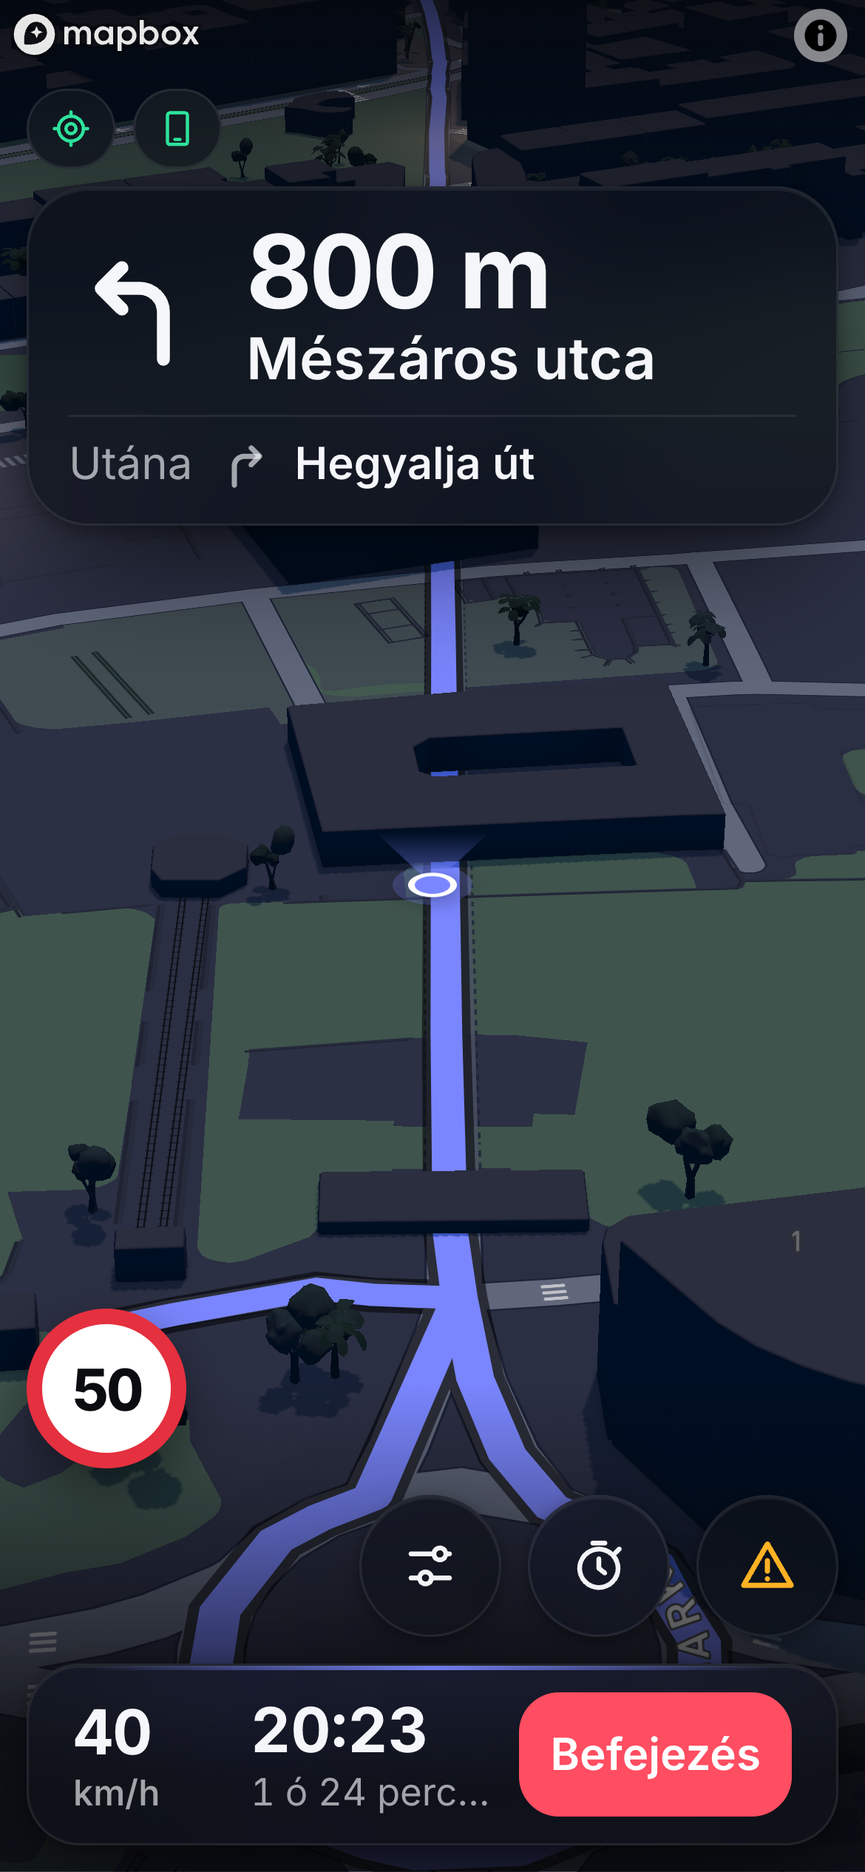
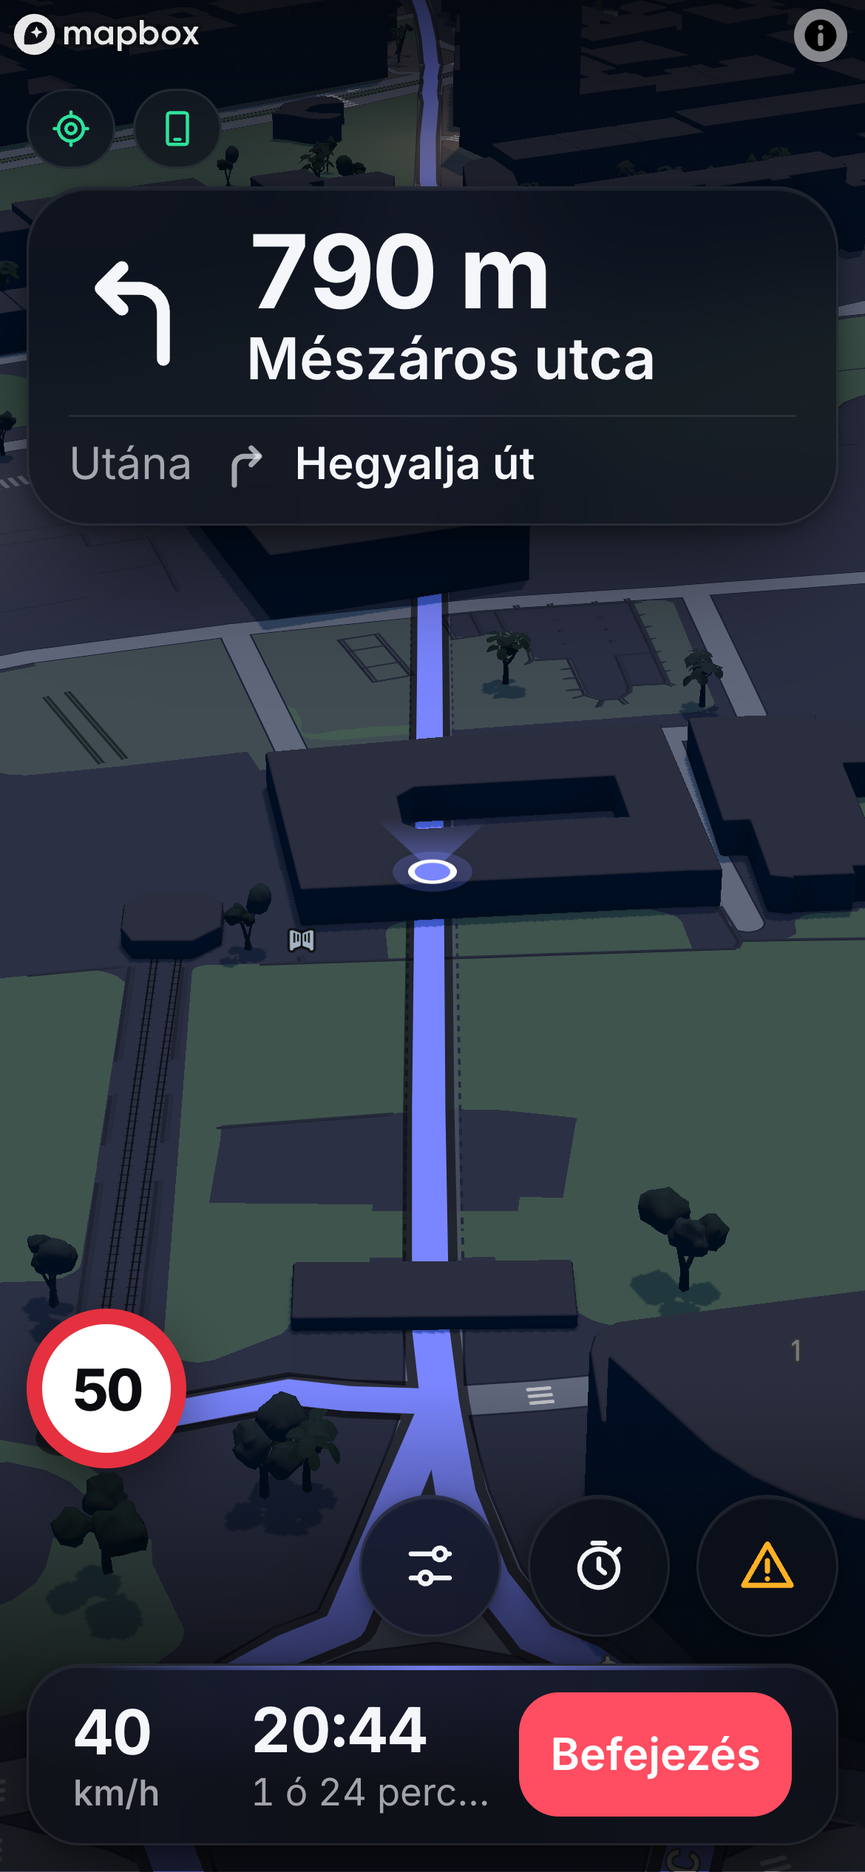
A8c: lehajtó = az alternatíva első új manővere (név, Waze-minta bemondás), fixtúra-tesztek

diff --git a/packages/app-logic/test/navigation.test.ts b/packages/app-logic/test/navigation.test.ts
@@ -1,4 +1,4 @@
-import { LocalProjection, type GpsFix, type LatLon, type Section } from '@atlagsebesseg/core';
+import { LocalProjection, Route, type GpsFix, type LatLon, type Section } from '@atlagsebesseg/core';
 import type { FixedCamera } from '../src/cameras';
 import { afterEach, describe, expect, it, vi } from 'vitest';
 import { BUDAPEST_GYOR_DIRECTIONS } from '../src/navigation/fixtures';
@@ -14,6 +14,7 @@ import {
   maneuverIcon,
   NavigationSession,
   NAV_CONFIG,
+  firstNewManeuver,
   parseDirections,
   parseGeocode,
   parseRecents,
@@ -396,23 +397,53 @@ describe('alternatíva-figyelés', () => {
     expect(offer).not.toBeNull();
   });
 
-  /** Az alternatíva az `k`-adik 100 m-es ponttól tér le az útvonalról. */
-  const branching = (k: number): NavRoute => {
-    const alt = scaleDurations(lineRoute({ lengthM: 42_000, durationS: 1800, id: 'alt' }), 1200, 'alt');
-    return { ...alt, points: alt.points.map((p, i) => (i >= k ? { lat: p.lat + 0.003, lon: p.lon } : p)) };
+  /** A Budapest→Győr fixtúra: a jelenlegi útvonal és az igazi alternatíva (gyorsabbra skálázva); a lehajtója a 56. kilométernél van. */
+  const fixture = () => {
+    const [main, other] = parseDirections(BUDAPEST_GYOR_DIRECTIONS, 'fx') as [NavRoute, NavRoute];
+    const core = new Route(main.points, main.distanceM);
+    const alt = scaleDurations(other, main.durationS - 600, 'alt');
+    const sectionOn = (fromM: number, toM: number): Section => {
+      const a = core.pointAt(fromM);
+      const b = core.pointAt(toM);
+      return { ...makeSection(lineRoute(), 0, 1000), start: a, end: b, lengthM: toM - fromM };
+    };
+    const fix = (alongM: number, t: number): GpsFix => ({ ...core.pointAt(alongM), timestamp: t, speed: 25, accuracy: 5, heading: null });
+    return { main, alt, sectionOn, fix };
   };
 
-  it('kézi mérés közben nincs ajánlat; a mérés végén jelenik meg, onnan 45 mp', async () => {
-    const route = lineRoute({ lengthM: 40_000, durationS: 1800 });
-    const h = harness(route);
-    h.respond([route, branching(30)]);
+  async function measuringOn(sectionToM: number) {
+    const f = fixture();
+    const h = harness(f.main);
+    h.session.setData({ sections: [f.sectionOn(400, sectionToM)], cameras: [], planned: [] });
+    h.respond([f.main, f.alt]);
     h.session.setMeasuring(true);
-    feed(h, at(route, 500, 0, T0 + 120_000));
+    feed(h, f.fix(1000, T0 + 120_000));
+    await flush();
+    return { h, f };
+  }
+
+  it('lehajtó = az alternatíva első, a jelenlegi útvonalon nem szereplő manővere', () => {
+    const { main, alt } = fixture();
+    const exit = firstNewManeuver(main, alt);
+    expect(exit).not.toBeNull();
+    expect(exit!.distanceM).toBeGreaterThan(54_000);
+    expect(exit!.distanceM).toBeLessThan(57_000);
+    expect(exit!.name).toBe('Kijárat 56 1');
+    // önmagával nincs eltérés
+    expect(firstNewManeuver(main, main)).toBeNull();
+  });
+
+  it('kézi mérés közben nincs ajánlat; a mérés végén jelenik meg, onnan 45 mp', async () => {
+    const { main: route, alt, fix } = fixture();
+    const h = harness(route);
+    h.respond([route, alt]);
+    h.session.setMeasuring(true);
+    feed(h, fix(500, T0 + 120_000));
     await flush();
     expect(h.session.view().offer).toBeNull();
     expect(h.session.drainVoice().some((v) => v.kind === 'faster')).toBe(false);
     // hosszú mérés: a visszatartott ajánlat nem évül el
-    feed(h, at(route, 900, 0, T0 + 400_000));
+    feed(h, fix(900, T0 + 400_000));
     expect(h.session.view().offer).toBeNull();
     h.session.setMeasuring(false);
     const offer = h.session.view().offer;
@@ -421,24 +452,13 @@ describe('alternatíva-figyelés', () => {
     expect(h.session.drainVoice().some((v) => v.kind === 'faster')).toBe(true);
   });
 
-  async function measuringWith(sectionToM: number, branchK: number) {
-    const route = lineRoute({ lengthM: 40_000, durationS: 1800 });
-    const h = harness(route);
-    h.session.setData({ sections: [makeSection(route, 400, sectionToM)], cameras: [], planned: [] });
-    h.respond([route, branching(branchK)]);
-    h.session.setMeasuring(true);
-    feed(h, at(route, 500, 0, T0 + 120_000));
-    await flush();
-    return h;
-  }
-
-  it('mérés közben: a leágazás a szakasz vége előtt → azonnal, kompakt ajánlat lehajtó-távolsággal', async () => {
-    const h = await measuringWith(3000, 10);
+  it('mérés közben: a lehajtó a szakasz vége előtt → azonnal, kompakt ajánlat a lehajtó nevével és távolságával', async () => {
+    const { h } = await measuringOn(60_000);
     const offer = h.session.view().offer;
     expect(offer).not.toBeNull();
     expect(offer!.compact).toBe(true);
-    expect(offer!.exitInM).toBeGreaterThan(500);
-    expect(offer!.exitInM).toBeLessThan(1500);
+    expect(offer!.exitName).toBe('Kijárat 56 1');
+    expect(offer!.exitInM).toBeGreaterThan(54_000);
     expect(offer!.expiresAt).toBe(T0 + 120_000 + NAV_CONFIG.offerTtlMs);
     const voice = h.session.drainVoice().filter((v) => v.kind === 'faster');
     expect(voice).toHaveLength(1);
@@ -448,16 +468,33 @@ describe('alternatíva-figyelés', () => {
     expect(h.session.view().offer!.compact).toBe(false);
   });
 
-  it('mérés közben: a leágazás a szakasz vége után → visszatartva, a mérés végén jelenik meg', async () => {
-    const h = await measuringWith(800, 20);
+  it('mérés közben: a lehajtó a szakasz vége után → visszatartva, a mérés végén jelenik meg', async () => {
+    const { h } = await measuringOn(20_000);
     expect(h.session.view().offer).toBeNull();
+    expect(h.session.drainVoice().some((v) => v.kind === 'faster')).toBe(false);
     h.session.setMeasuring(false);
     expect(h.session.view().offer).not.toBeNull();
   });
 
-  it('a leágazást elhagyva az ajánlat eltűnik', async () => {
-    const h = await measuringWith(3000, 10);
-    feed(h, at(lineRoute({ lengthM: 40_000 }), 1900, 0, T0 + 130_000));
+  it('bemondás Waze-mintára: azonnal, majd 500 m-nél még egyszer', async () => {
+    const { h, f } = await measuringOn(60_000);
+    const exitAlong = 1000 + firstNewManeuver(f.main, f.alt)!.distanceM;
+    expect(h.session.drainVoice().filter((v) => v.kind === 'faster')).toHaveLength(1);
+    feed(h, f.fix(exitAlong - 2000, T0 + 125_000));
+    expect(h.session.drainVoice().filter((v) => v.kind === 'faster')).toHaveLength(0);
+    feed(h, f.fix(exitAlong - 450, T0 + 130_000));
+    const second = h.session.drainVoice().filter((v) => v.kind === 'faster');
+    expect(second.map((v) => v.text)).toEqual([t('nav.voice.fasterExit500')]);
+    feed(h, f.fix(exitAlong - 300, T0 + 132_000));
+    expect(h.session.drainVoice().filter((v) => v.kind === 'faster')).toHaveLength(0);
+  });
+
+  it('a lehajtót 50 m-rel elhagyva az ajánlat eltűnik', async () => {
+    const { h, f } = await measuringOn(60_000);
+    const exitAlong = 1000 + firstNewManeuver(f.main, f.alt)!.distanceM;
+    feed(h, f.fix(exitAlong - 100, T0 + 130_000));
+    expect(h.session.view().offer).not.toBeNull();
+    feed(h, f.fix(exitAlong + 80, T0 + 131_000));
     expect(h.session.view().offer).toBeNull();
   });
 

diff --git a/packages/app-logic/src/navigation/session.ts b/packages/app-logic/src/navigation/session.ts
@@ -5,7 +5,7 @@ import type { SpeedUnit } from '../settings';
 import type { RouteFetcher } from './client';
 import { NAV_CONFIG, type NavConfig } from './config';
 import { limitAt } from './directions';
-import { adjustedDurations, cumulative, divergenceM, NO_ENFORCEMENT_DATA, remainingSeconds, routeEnforcement, routeOverlap, type EnforcementData } from './enforcement';
+import { adjustedDurations, cumulative, firstNewManeuver, NO_ENFORCEMENT_DATA, remainingSeconds, routeEnforcement, routeOverlap, type EnforcementData } from './enforcement';
 import { maneuverIcon, type ManeuverIcon } from './maneuver';
 import type { EnforcementItem, NavDestination, NavRoute, NavStep } from './types';
 
@@ -34,14 +34,24 @@ export interface AlternativeOffer {
   /** Nyereség a jelenlegi útvonalhoz képest (s). */
   gainS: number;
   expiresAt: number;
-  /** A leágazás helye az aktuális útvonal mentén (m). */
-  exitAlongM: number;
+  /** A lehajtó (az alternatíva első új manővere) helye az aktuális útvonal mentén (m); `null`, ha nem állapítható meg. */
+  exitAlongM: number | null;
+  /** A lehajtó manőver neve (pl. a kijárat), ha van. */
+  exitName: string | null;
   /** A leágazásig hátralévő távolság (m) – a nézetben élőben számolva. */
   exitInM: number;
   /** Ugyanez km-ben, a nyelv tizedesjelével (a feliratokhoz). */
   exitKm: string;
   /** Mérés közben megjelenő, kompakt forma. */
   compact: boolean;
+}
+
+/** Az ajánlat jelöltje: az alternatíva és a lehajtója. */
+interface Candidate {
+  route: NavRoute;
+  gainS: number;
+  exitAlongM: number | null;
+  exitName: string | null;
 }
 
 export interface NavView {
@@ -119,7 +129,9 @@ export class NavigationSession {
   private altPending = false;
   private offer: AlternativeOffer | null = null;
   /** Mérés közben visszatartott ajánlat: a mérés végén jelenik meg, friss lejárati idővel. */
-  private held: { route: NavRoute; gainS: number; exitAlongM: number } | null = null;
+  private held: Candidate | null = null;
+  /** Az az ajánlat, amelynél a 500 m-es második bemondás már elhangzott (vagy fölösleges). */
+  private exit500For: string | null = null;
   private measuring = false;
   private readonly declined = new Set<string>();
 
@@ -188,7 +200,7 @@ export class NavigationSession {
     if (measuring === this.measuring) return;
     this.measuring = measuring;
     if (measuring && this.offer && !this.exitBeforeSectionEnd(this.offer.exitAlongM)) {
-      this.held = { route: this.offer.route, gainS: this.offer.gainS, exitAlongM: this.offer.exitAlongM };
+      this.held = { route: this.offer.route, gainS: this.offer.gainS, exitAlongM: this.offer.exitAlongM, exitName: this.offer.exitName };
       this.offer = null;
     } else if (!measuring && this.held) {
       const h = this.held;
@@ -257,8 +269,14 @@ export class NavigationSession {
 
     if (this.offer && t0 >= this.offer.expiresAt) this.declineOffer();
     // a leágazást elhagytuk: az ajánlat érvénytelen
-    if (this.offer && this.along > this.offer.exitAlongM + 50) this.offer = null;
-    if (this.held && this.along > this.held.exitAlongM + 50) this.held = null;
+    if (this.offer && this.offer.exitAlongM !== null && this.along > this.offer.exitAlongM + 50) this.offer = null;
+    if (this.held && this.held.exitAlongM !== null && this.along > this.held.exitAlongM + 50) this.held = null;
+    // Waze-minta: a lehajtó előtt 500 m-nél még egyszer
+    const o = this.offer;
+    if (o && o.exitAlongM !== null && this.exit500For !== o.id && o.exitAlongM - this.along <= 500) {
+      this.exit500For = o.id;
+      this.say('faster', t('nav.voice.fasterExit500'));
+    }
 
     // alternatíva-figyelés: 2 percenként, ha minden rendben
     if (
@@ -353,29 +371,32 @@ export class NavigationSession {
       }
     }
     if (!best) return;
-    const d = divergenceM(this.core, best.route) ?? 0;
-    this.present({ ...best, exitAlongM: this.along + d });
+    const exit = firstNewManeuver(this.route, best.route);
+    this.present({ ...best, exitAlongM: exit ? this.along + exit.distanceM : null, exitName: exit?.name ?? null });
   }
 
   /** A mérés alatt álló szakasz végkapuja előtt van-e a leágazás (kézi mérésnél nincs végkapu → nem). */
-  private exitBeforeSectionEnd(exitAlongM: number): boolean {
+  private exitBeforeSectionEnd(exitAlongM: number | null): boolean {
+    if (exitAlongM === null) return false;
     const sec = this.items.find((i) => i.kind === 'section' && i.startM <= this.along && this.along <= i.endM);
     return sec !== undefined && exitAlongM < sec.endM;
   }
 
   /** Az ajánlat megjelenítése (és bemondása); mérés közben visszatartjuk. */
-  private present(best: { route: NavRoute; gainS: number; exitAlongM: number }): void {
+  private present(best: Candidate): void {
     if (this.measuring && !this.exitBeforeSectionEnd(best.exitAlongM)) {
       this.held = best;
       return;
     }
-    this.offer = { id: `offer-${++this.voiceSeq}`, route: best.route, gainS: best.gainS, exitAlongM: best.exitAlongM, exitInM: 0, exitKm: '', compact: false, expiresAt: this.clock() + this.cfg.offerTtlMs };
-    if (this.measuring) this.say('faster', t('nav.voice.fasterExit', { km: this.exitKm(best.exitAlongM - this.along) }));
+    this.offer = { id: `offer-${++this.voiceSeq}`, route: best.route, gainS: best.gainS, exitAlongM: best.exitAlongM, exitName: best.exitName, exitInM: 0, exitKm: '', compact: false, expiresAt: this.clock() + this.cfg.offerTtlMs };
+    // a második (500 m-es) bemondás fölösleges, ha az első is 600 m-en belül hangzik el
+    this.exit500For = best.exitAlongM !== null && best.exitAlongM - this.along <= 600 ? this.offer.id : null;
+    if (best.exitAlongM !== null) this.say('faster', t('nav.voice.fasterExit', { km: this.exitKm(best.exitAlongM - this.along) }));
     else this.say('faster', t('nav.voice.faster', { n: Math.max(1, Math.round(best.gainS / 60)) }));
   }
 
   private offerView(o: AlternativeOffer): AlternativeOffer {
-    const exitInM = Math.max(0, o.exitAlongM - this.along);
+    const exitInM = o.exitAlongM === null ? 0 : Math.max(0, o.exitAlongM - this.along);
     return { ...o, exitInM, exitKm: this.exitKm(exitInM), compact: this.measuring };
   }
 

diff --git a/apps/web/src/sim/navSim.ts b/apps/web/src/sim/navSim.ts
@@ -79,7 +79,7 @@ function splice(main: NavRoute, head: readonly LatLon[], joinAlongM: number, id:
     durationS: headLen / (SIM_DETOUR_SPEED_KMH / 3.6),
     startM: 0,
     name: '',
-    endManeuver: { type: 'merge', modifier: 'slight right', instruction: 'Hajtson vissza az M1-re', location: points[headSegs]! },
+    endManeuver: { type: 'merge', modifier: 'slight right', instruction: 'Hajtson vissza az M1-re', location: points[Math.min(headSegs, points.length - 1)]! },
     banners: [{ distanceAlongM: headLen, primary: { text: first?.name || 'M1', type: 'merge', modifier: 'slight right' }, secondary: null, sub: null }],
     voice: [{ distanceAlongM: headLen, text: 'Hajtson vissza az M1-re' }],
   };
@@ -129,6 +129,27 @@ function routeFrom(main: NavRoute, detour: SimDetour, from: LatLon, id: string):
   return splice(main, [from, route.pointAt(join)], join, id);
 }
 
+/** A szimulált lehajtó távolsága az alternatíva elejétől (m): a mérés közbeni ajánlatnál a szakaszon belül van. */
+const SIM_EXIT_M = 400;
+
+/** Az első lépést a lehajtó helyén kettévágja: a lehajtó-manőver az, ami a jelenlegi útvonalon nincs meg. */
+function withExit(steps: NavStep[], route: Route, exitM: number): NavStep[] {
+  const at = steps.findIndex((s) => s.startM < exitM && s.startM + s.distanceM > exitM + 50);
+  const target = steps[at];
+  if (!target) return steps;
+  const cut = exitM - target.startM;
+  const exit: NavStep = {
+    ...target,
+    distanceM: cut,
+    durationS: target.durationS * (cut / target.distanceM),
+    endManeuver: { type: 'off ramp', modifier: 'right', instruction: 'Hajtson le a lehajtón', location: route.pointAt(exitM) },
+    banners: [{ distanceAlongM: cut, primary: { text: 'Kijárat 56', type: 'off ramp', modifier: 'right' }, secondary: null, sub: null }],
+    voice: [{ distanceAlongM: cut, text: 'Hajtson le a lehajtón' }],
+  };
+  const rest: NavStep = { ...target, startM: exitM, distanceM: target.distanceM - cut, durationS: target.durationS * (1 - cut / target.distanceM) };
+  return [...steps.slice(0, at), exit, rest, ...steps.slice(at + 1)].map((s, k) => ({ ...s, index: k }));
+}
+
 /** Gyorsabb (de más vonalú) alternatíva: a fő útvonal ívesen eltolva, a hátralévő időnél 7 perccel rövidebb. */
 function fasterAlternative(base: NavRoute, id: string, gainS = 420): NavRoute {
   const n = base.points.length;
@@ -142,6 +163,24 @@ function fasterAlternative(base: NavRoute, id: string, gainS = 420): NavRoute {
   });
   const total = base.segDurationS.reduce((a, b) => a + b, 0);
   const k = Math.max(0.2, (total - gainS) / total);
+  // a szimulált „visszahajtás” rövid fejlépése csak a szimulátor műterméke (igazi, friss Directions-hívásban nincs): az alternatíva nélküle indul
+  const head = base.steps[0];
+  const baseSteps =
+    head && head.endManeuver.type === 'merge' && head.distanceM < 150 && base.steps.length > 1
+      ? base.steps.slice(1).map((s, k) => (k === 0 ? { ...s, startM: 0, distanceM: s.distanceM + head.distanceM } : s))
+      : base.steps;
+  const shiftedSteps = baseSteps.map((s) => {
+      // az első 0,8 km-en az alternatíva ugyanazt a vonalat követi; utána tér le (az ottani manőver a lehajtó)
+      const eased = s.startM + s.distanceM > 800;
+      const f = Math.min(1, (s.startM + s.distanceM) / base.distanceM);
+      const loc = s.endManeuver.location;
+      return {
+        ...s,
+        startM: s.startM * (cum / base.distanceM),
+        distanceM: s.distanceM * (cum / base.distanceM),
+        endManeuver: { ...s.endManeuver, location: eased ? { lat: loc.lat + 0.0042 * Math.max(0.2, Math.sin(Math.PI * f)), lon: loc.lon } : loc },
+      };
+    });
   return {
     ...base,
     id,
@@ -151,7 +190,7 @@ function fasterAlternative(base: NavRoute, id: string, gainS = 420): NavRoute {
     typicalDurationS: total * k,
     segStartM,
     segDurationS: base.segDurationS.map((d) => d * k),
-    steps: base.steps.map((s) => ({ ...s, startM: s.startM * (cum / base.distanceM), distanceM: s.distanceM * (cum / base.distanceM) })),
+    steps: withExit(shiftedSteps, new Route(points, cum), SIM_EXIT_M),
   };
 }
 

diff --git a/packages/app-logic/src/navigation/enforcement.ts b/packages/app-logic/src/navigation/enforcement.ts
@@ -146,23 +146,24 @@ export function routeOverlap(a: NavRoute, b: NavRoute, bandM = 60): number {
 }
 
 
+/** Ezek a manőver-típusok nem jelentenek leágazást (a lépések tagolásából is adódhatnak). */
+const NOT_AN_EXIT = new Set(['depart', 'arrive', 'continue', 'new name', 'notification']);
+
+/** Két manőver „ugyanaz”, ha ilyen közel van egymáshoz (m). */
+const SAME_MANEUVER_M = 35;
+
 /**
- * Az alternatíva leágazási pontja: az első pontja, amely a jelenlegi útvonaltól `thresholdM`-nél
- * távolabb esik. Visszaadja az alternatíva mentén mért távolságot a kezdőpontjától (az alternatívát
- * a jelenlegi pozícióról kérjük, tehát ez a távolság a pozíciótól számít); `null`, ha végig egyezik.
+ * Az alternatíva lehajtója: az alternatíva első manővere, amely a jelenlegi útvonal lépései között
+ * nincs (a helye alapján). `distanceM` az alternatíva mentén mért távolság a kezdőpontjától – az
+ * alternatívát a jelenlegi pozícióról kérjük, tehát ez a pozíciótól számít; `name` a manőver
+ * szalag-szövege (pl. a kijárat neve), ha van. `null`, ha nincs ilyen manőver.
  */
-export function divergenceM(current: Route, alt: NavRoute, thresholdM = 30, stepM = 40): number | null {
-  let acc = 0;
-  let since = stepM;
-  for (let i = 0; i < alt.points.length; i++) {
-    if (i > 0) {
-      const seg = haversineM(alt.points[i - 1]!, alt.points[i]!);
-      acc += seg;
-      since += seg;
-    }
-    if (since < stepM) continue;
-    since = 0;
-    if (current.project(alt.points[i]!).crossM > thresholdM) return acc;
+export function firstNewManeuver(current: NavRoute, alt: NavRoute): { distanceM: number; name: string | null } | null {
+  for (const step of alt.steps) {
+    const m = step.endManeuver;
+    if (NOT_AN_EXIT.has(m.type)) continue;
+    if (!m.location || current.steps.some((c) => c.endManeuver.location && haversineM(c.endManeuver.location, m.location) <= SAME_MANEUVER_M)) continue;
+    return { distanceM: step.startM + step.distanceM, name: step.banners[0]?.primary.text || null };
   }
   return null;
 }

diff --git a/apps/web/src/ui/NavHud.tsx b/apps/web/src/ui/NavHud.tsx
@@ -101,7 +101,8 @@ export function NavBottom({ view, unit, currentKmh, onEnd }: { view: NavView; un
 export function OfferCard({ offer, onAccept, onDecline }: { offer: AlternativeOffer; onAccept: () => void; onDecline: () => void }) {
   if (offer.compact) {
     // mérés közben: egysoros, a mérőkártya (státusz) fölött
-    const title = t('nav.offer.exit', { km: offer.exitKm, n: Math.max(1, Math.round(offer.gainS / 60)) });
+    const n = Math.max(1, Math.round(offer.gainS / 60));
+    const title = offer.exitName ? t('nav.offer.exitNamed', { name: offer.exitName, km: offer.exitKm, n }) : t('nav.offer.exit', { km: offer.exitKm, n });
     return (
       <section className="nav-offer nav-offer-compact glass" role="alertdialog" aria-label={title}>
         <div className="title nav-offer-title">{title}</div>

diff --git a/ROUNDS.md b/ROUNDS.md
@@ -14,4 +14,4 @@
 | A7b | 2026-10-28 | Sonnet 5.5 (helyi) | `d9bead1` | Mérőkártya: egyetlen állapot (jó / lassíts / túl gyors; a „határon” sáv megszűnt) a core `meterState`-ből, kártya-elrendezés „most · várható” sorral, szimulátor mind a 3 állapottal, marketing-PNG-k a docs/screenshots/-ban. |
 | A7c | 2026-10-28 | Sonnet 5.5 (helyi) | `11673dc` | Többnyelvűség (hu, en, de, sk, cs, pl; 188 kulcs/nyelv, `t()`, nyelvválasztó, hang-jelzés, teszt + headless hu→en) és települészóna a tervezett méréseknél (Speedmarathon-próba: 21 zóna a 61 csak-település sorból; 745 → 744 sor: a korábbi 22 azonos-azonosítójú dupla sor kiesett). |
 | A8 | 2026-10-28 | Sonnet 5.5 (helyi) | `c34f6ef` | Webes navigáció v1: Mapbox Geocoding kereső + Haza/Munka + utolsó 10 cél, Directions (driving-traffic, alternatívák, dugó-színezés), útvonalválasztó, `NavigationSession` az app-logic-ban (illesztés, letérés→újratervezés, alternatíva-figyelés, szakaszellenőrzés-tudatos ETA, hang), összevont nézet méréskor, költségvédelem + napi számláló, szimulátor (Budapest→Győr fixtúra) + headless végigjátszás (29 ellenőrzés), 4 marketing-PNG; döntések után: "N kamera · M ellenőrzött", az útvonal-adat egyszeri előtöltése minden útvonalra, ajánlat mérés közben visszatartva (a mérés végétől 45 mp). |
-| A8c | 2026-10-28 | Sonnet 5.5 (helyi) | `4604623` | „Gyorsabb út” ajánlat mérés közben: az alternatíva-polling mérés alatt is fut, leágazási pont (`divergenceM`); ha a mért szakasz végkapuja előtt van, azonnal kompakt ajánlat a mérőkártya fölött („Lehajtó {km} km-nél · {perc} perc megtakarítás”, hang), különben a mérés végéig visszatartva. |
+| A8c | 2026-10-28 | Sonnet 5.5 (helyi) | `4604623` | „Gyorsabb út” ajánlat mérés közben: az alternatíva-polling mérés alatt is fut, leágazási pont (`divergenceM`); ha a mért szakasz végkapuja előtt van, azonnal kompakt ajánlat a mérőkártya fölött („Lehajtó {km} km-nél · {perc} perc megtakarítás”, hang), különben a mérés végéig visszatartva. A8c/2: a lehajtó nem távolságküszöb, hanem az alternatíva első, a jelenlegi útvonalon nem szereplő manővere (`firstNewManeuver`), a nevével („Lehajtó: Kijárat 56 1 · 55,7 km · 6 perc megtakarítás”), Waze-minta bemondás (azonnal + 500 m-nél), tesztek a Budapest→Győr fixtúrán. |
